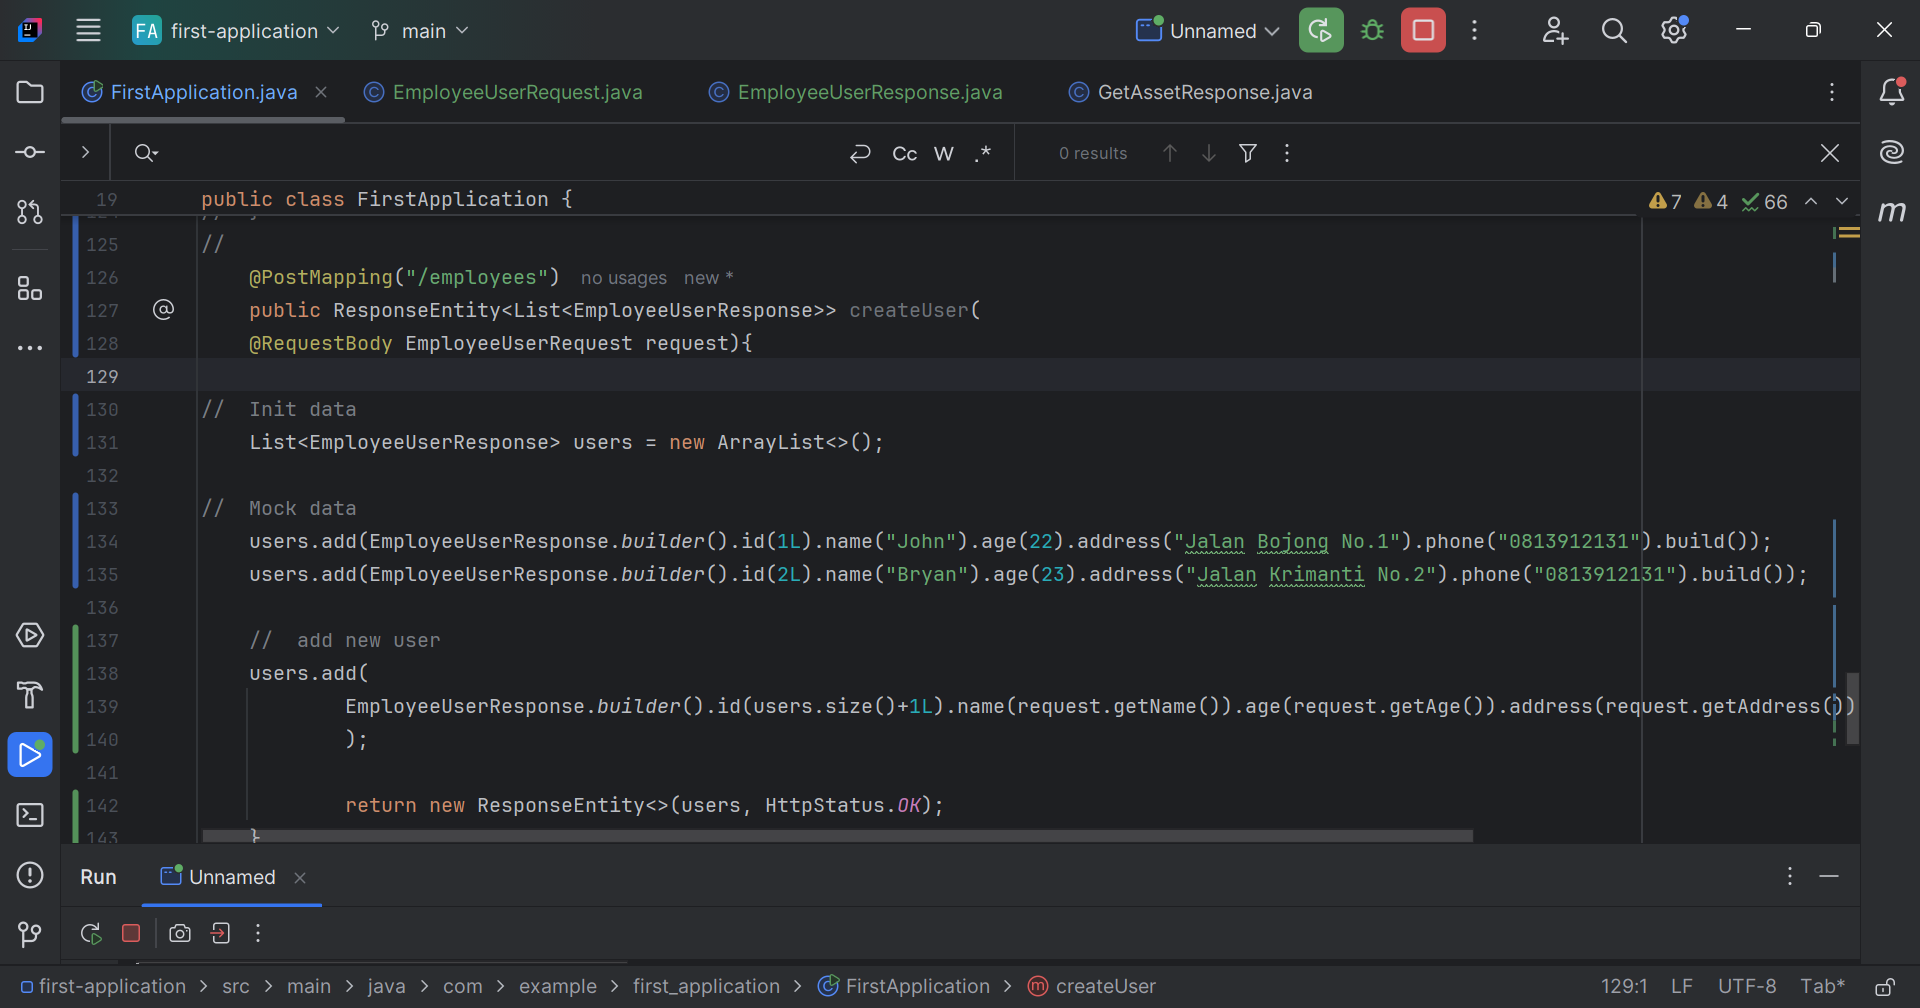
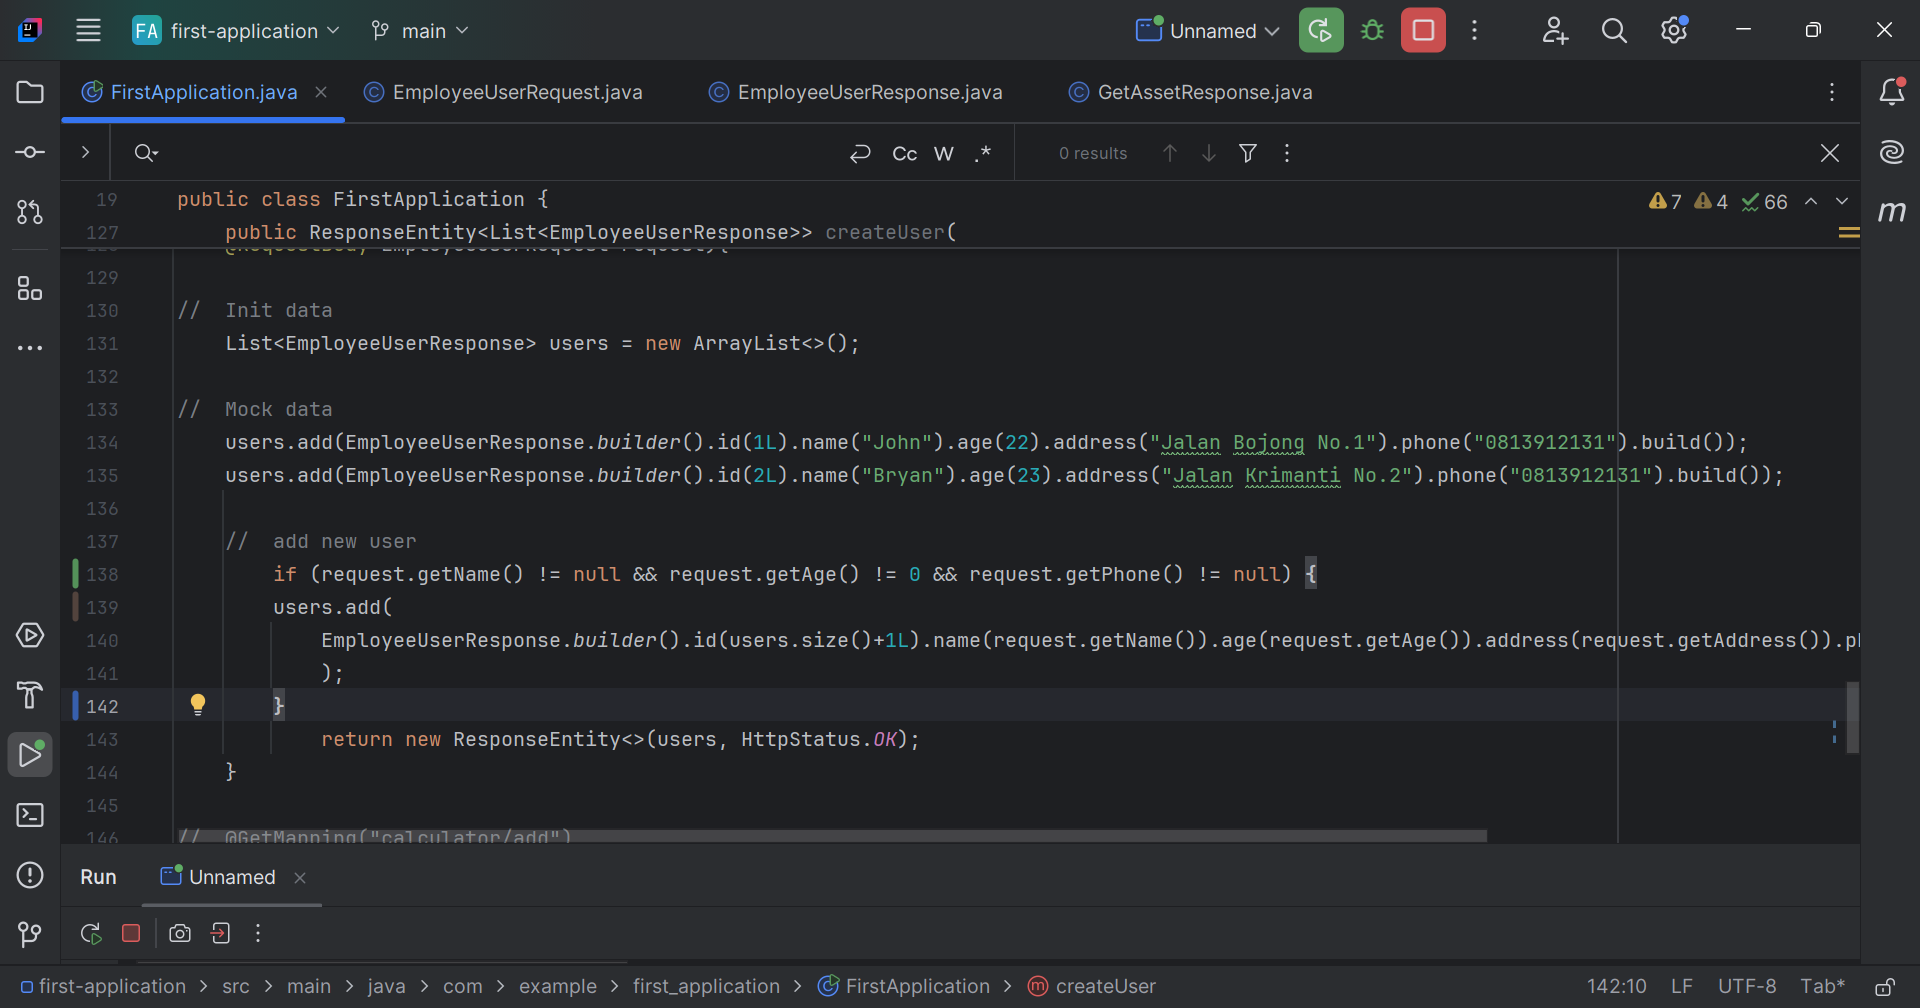
refactor code employee

diff --git a/exercise/day-2/section-1/demo/first-application/src/main/java/com/example/first_application/FirstApplication.java b/exercise/day-2/section-1/demo/first-application/src/main/java/com/example/first_application/FirstApplication.java
@@ -135,10 +135,11 @@ public class FirstApplication {
 	users.add(EmployeeUserResponse.builder().id(2L).name("Bryan").age(23).address("Jalan Krimanti No.2").phone("0813912131").build());
 
 	//	add new user
-	users.add(
+		if (request.getName() != null && request.getAge() != 0 && request.getPhone() != null) {
+		users.add(
 			EmployeeUserResponse.builder().id(users.size()+1L).name(request.getName()).age(request.getAge()).address(request.getAddress()).phone(request.getPhone()).build()
 			);
-
+		}
 			return new ResponseEntity<>(users, HttpStatus.OK);
 	}
 
